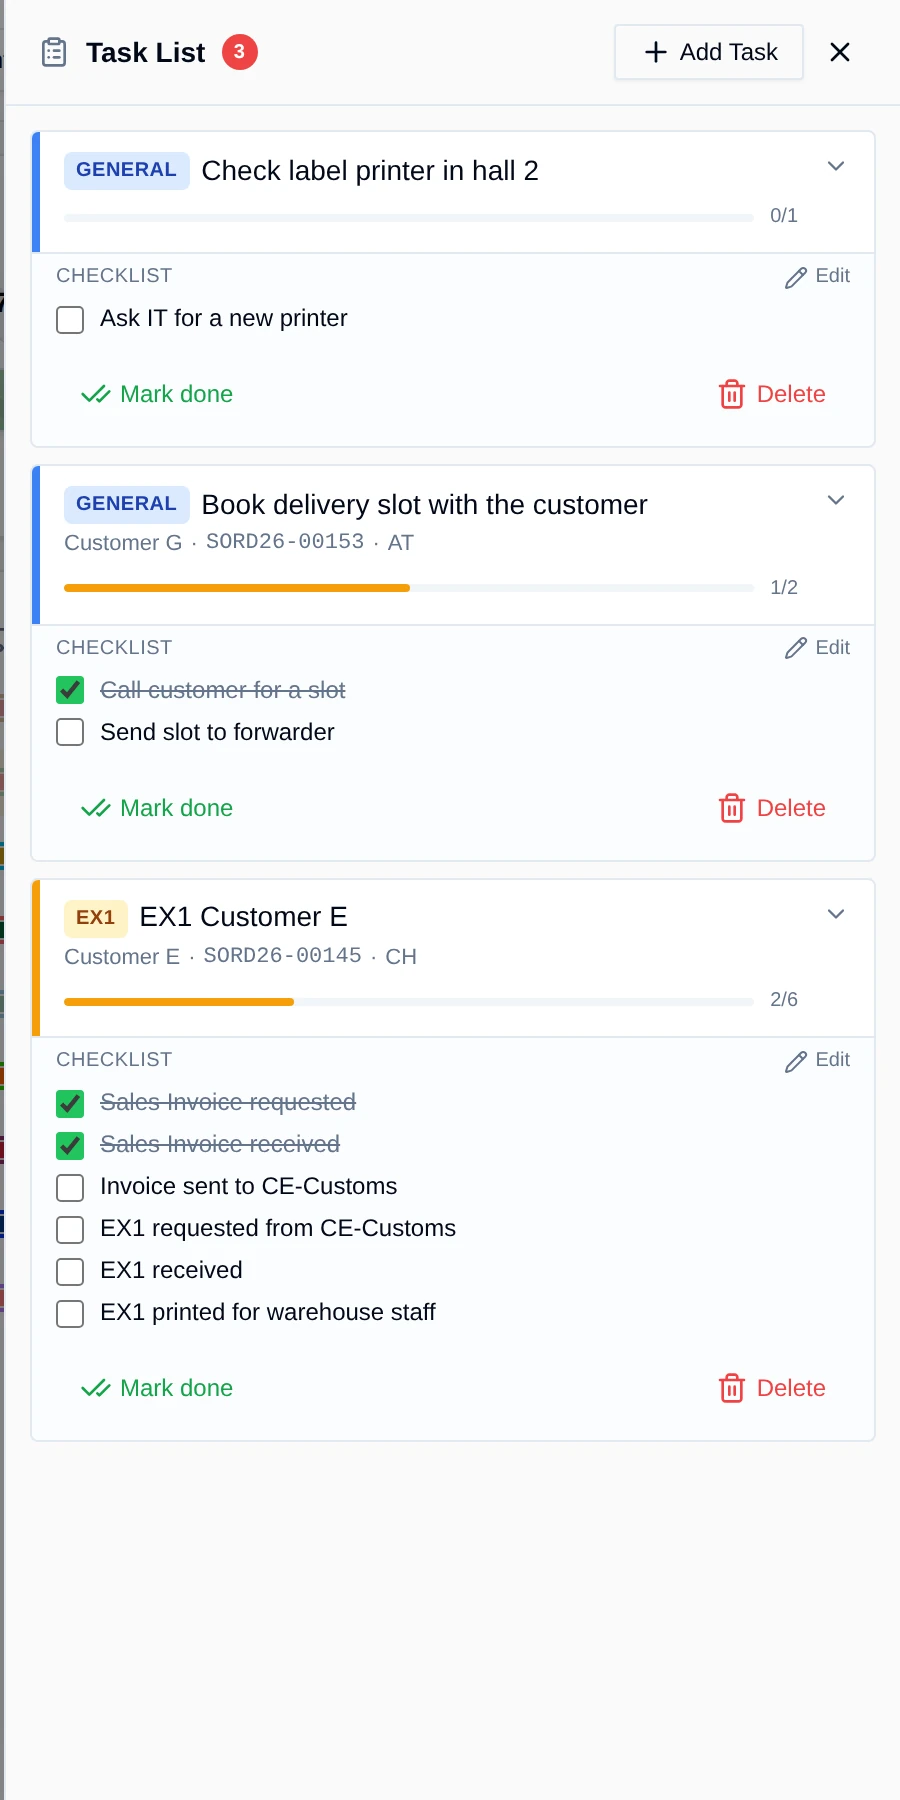
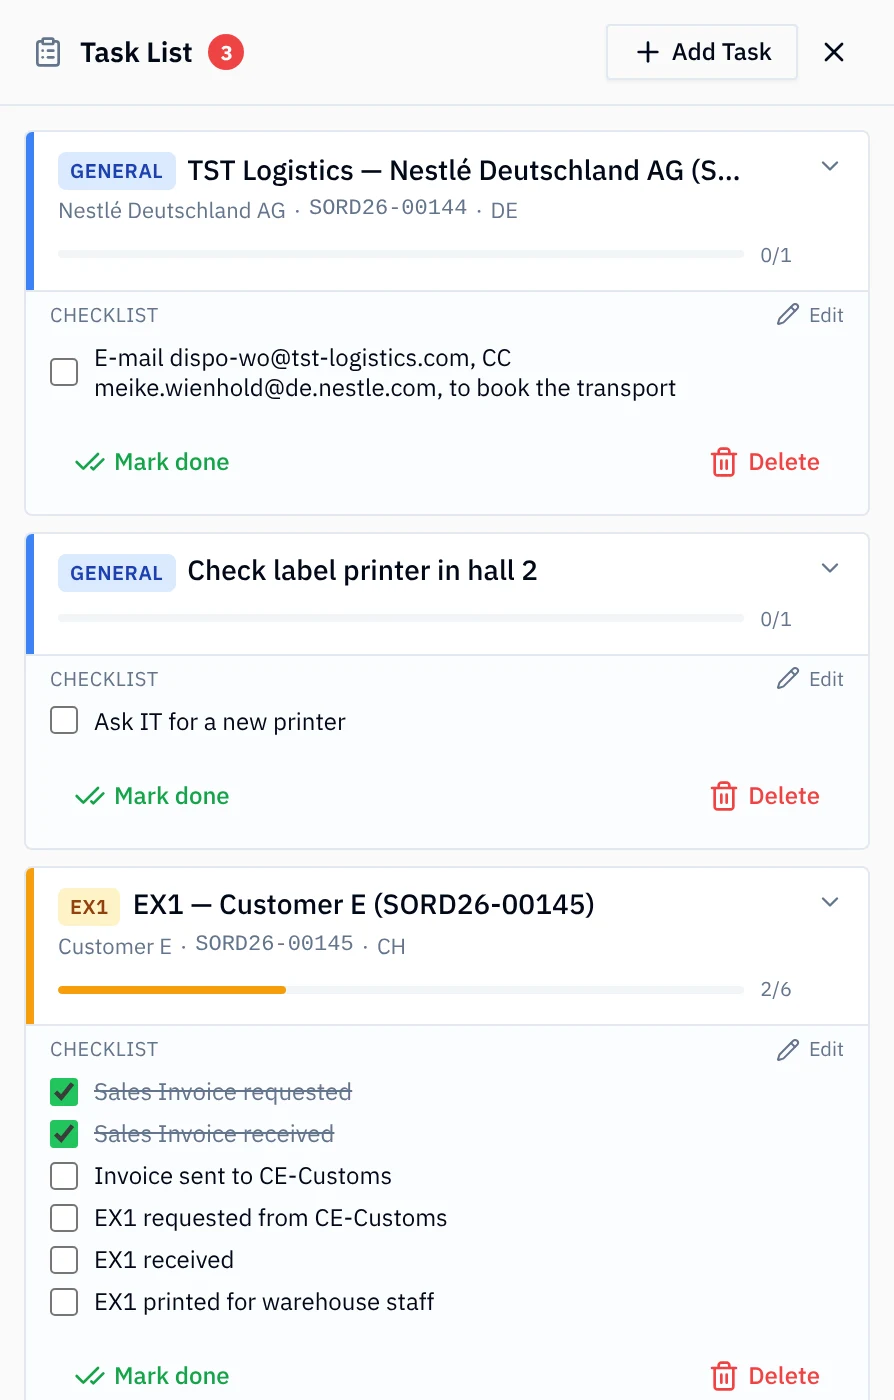
Screenshots for waiting inbound trucks, assigned barcodes and task list

diff --git a/README.md b/README.md
@@ -170,6 +170,12 @@ On a computer the Floor Plan opens as a 3D model of the staging area. Every box 
 
 Picked orders and arrived deliveries keep their slots until they are picked up or stored, always with all of their pallets. Pending picks and expected deliveries fill the free slots and are the first to go when space runs out.
 
+An arrived delivery that does not fit yet waits as a truck next to the hall, the oldest one next to the wall. Hovering shows the supplier and the pallet count, and the truck disappears once all of its pallets fit.
+
+<p align="center">
+  <img src="public/screenshots/floor-3d-trucks.webp" alt="Inbound trucks waiting next to the hall" width="100%"/>
+</p>
+
 <p align="center">
   <img src="public/screenshots/floor-3d-rotated.webp" alt="Rotated 3D view" width="48%"/>
   <img src="public/screenshots/floor-3d-zoom.webp" alt="Zoomed 3D view" width="48%"/>
@@ -480,6 +486,10 @@ The Control Center works with two devices on the same token, no pairing needed. 
 </p>
 
 On the phone, each scan of a lot number finds its line on the delivery note. Quantities are counted, not scanned: pick a unit (pallet, layer, carton or single) and type the amount, with arithmetic such as `12x8x3-1`. **Cashier mode** books one unit per scan. Pack sizes are learned per article and shared across devices. Assigned barcodes have their own list in the settings, like the article catalog. Every booking gives a tone and a flash at the screen edge.
+
+<p align="center">
+  <img src="public/screenshots/control-barcodes.webp" alt="Assigned barcodes in the Control Center settings" width="60%"/>
+</p>
 
 <p align="center">
   <img src="public/screenshots/control-summary.webp" alt="Inspection summary on the phone" width="30%"/>
